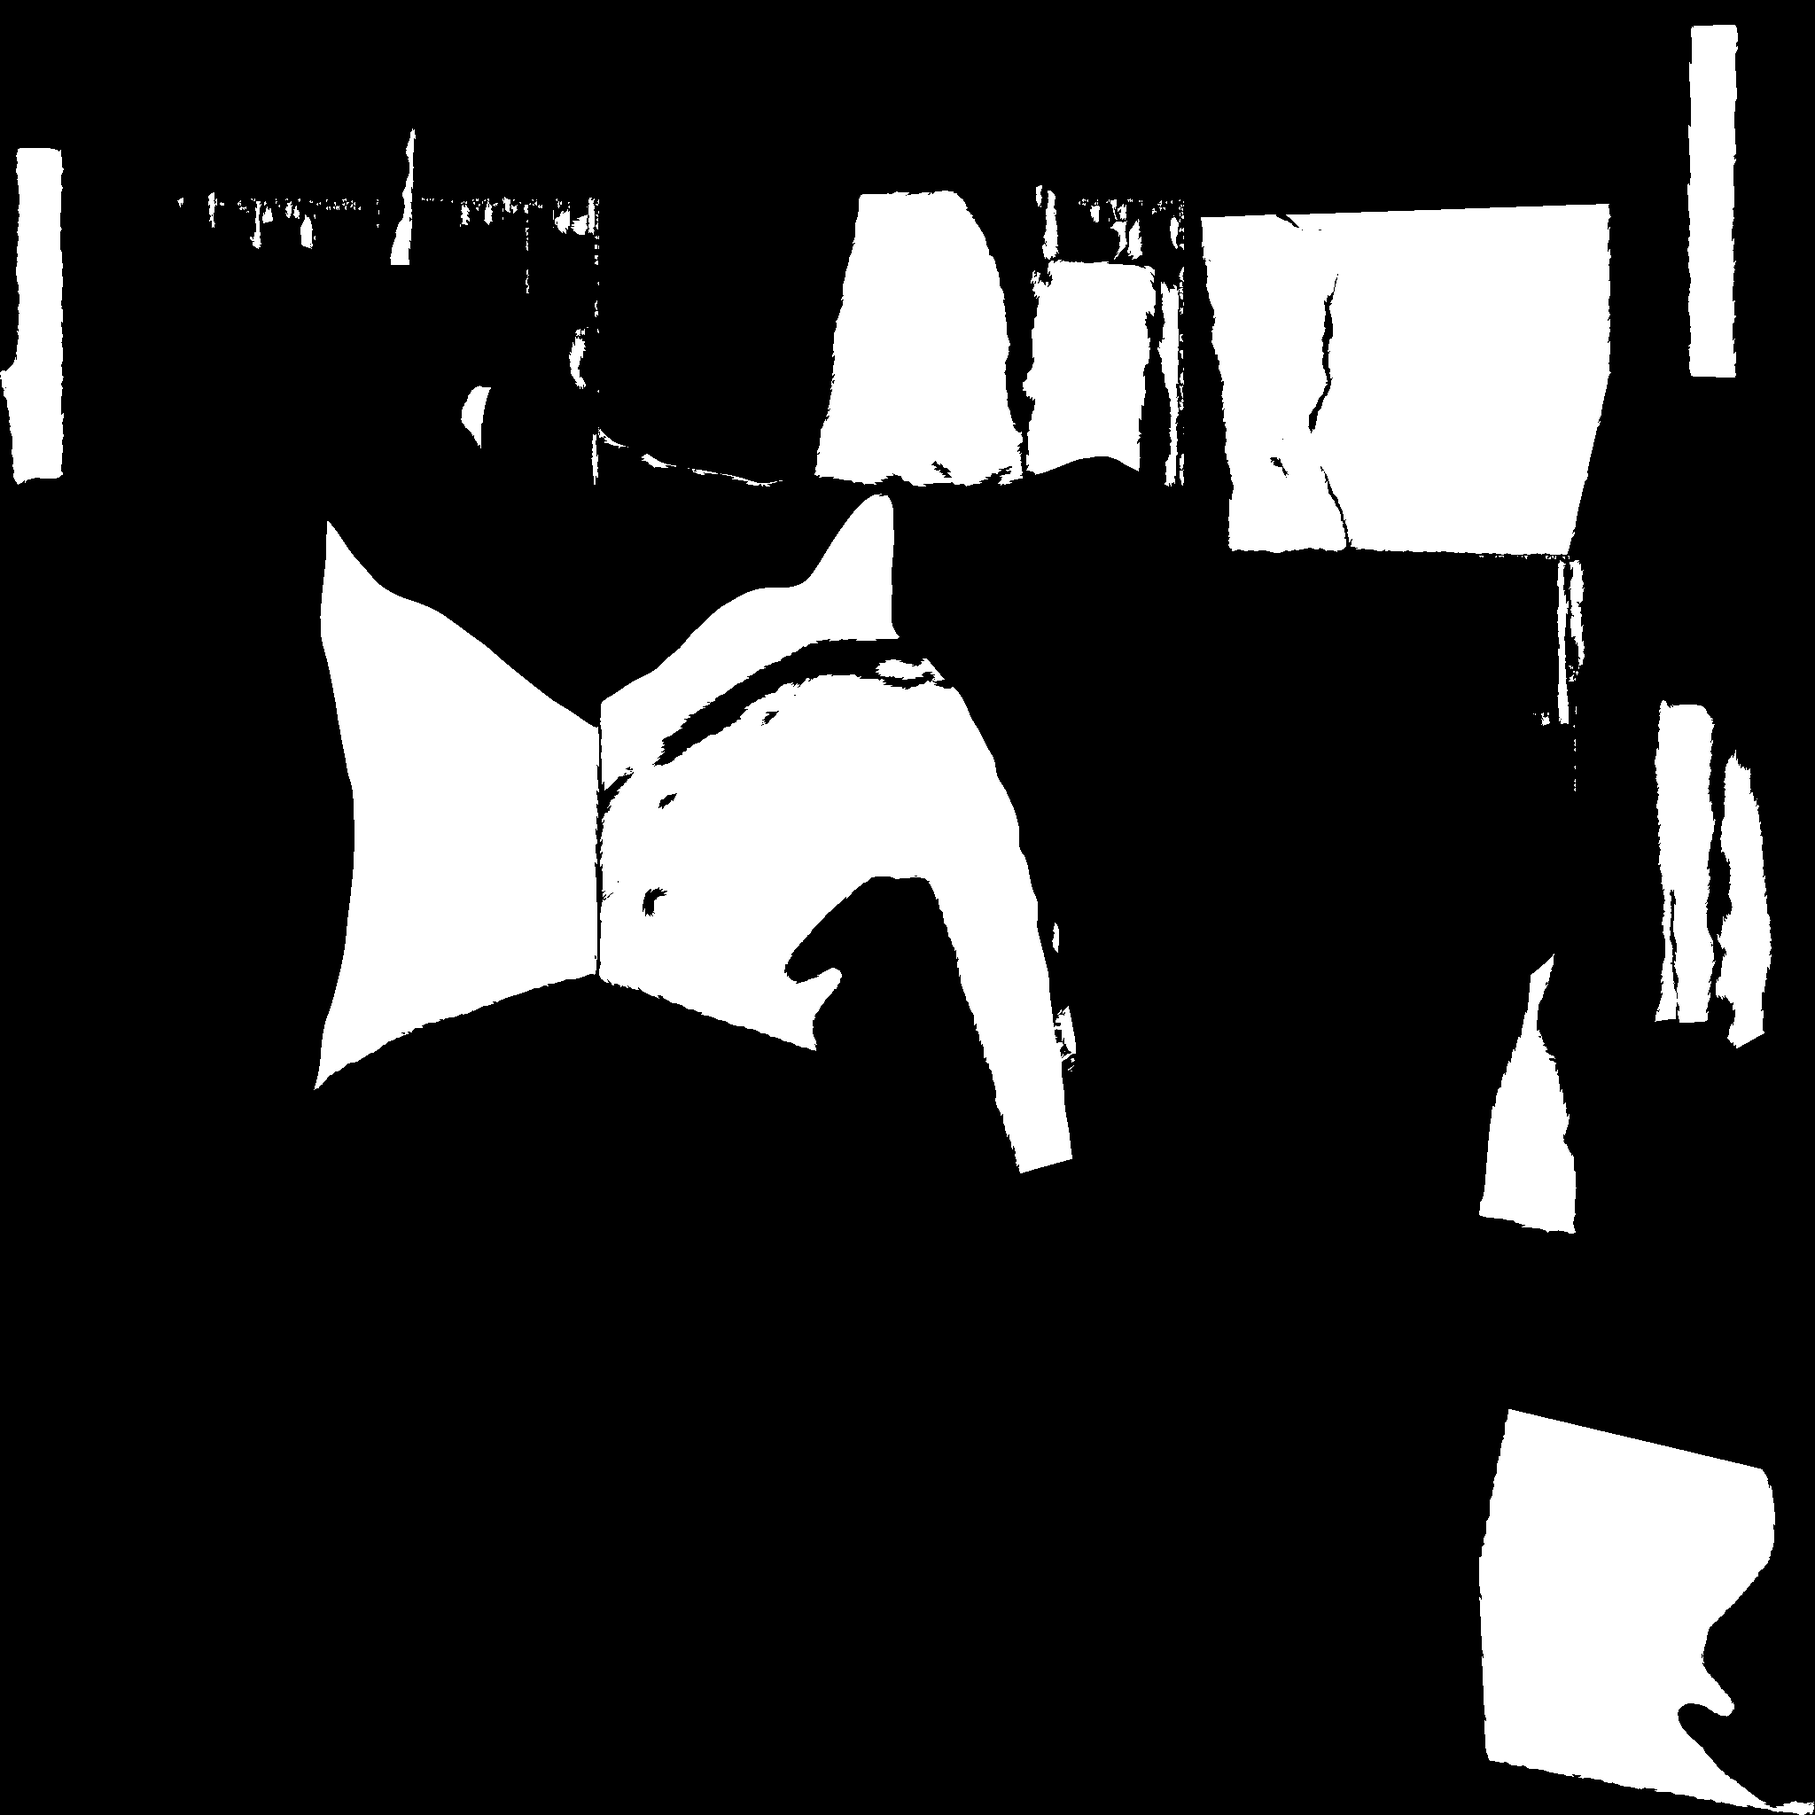
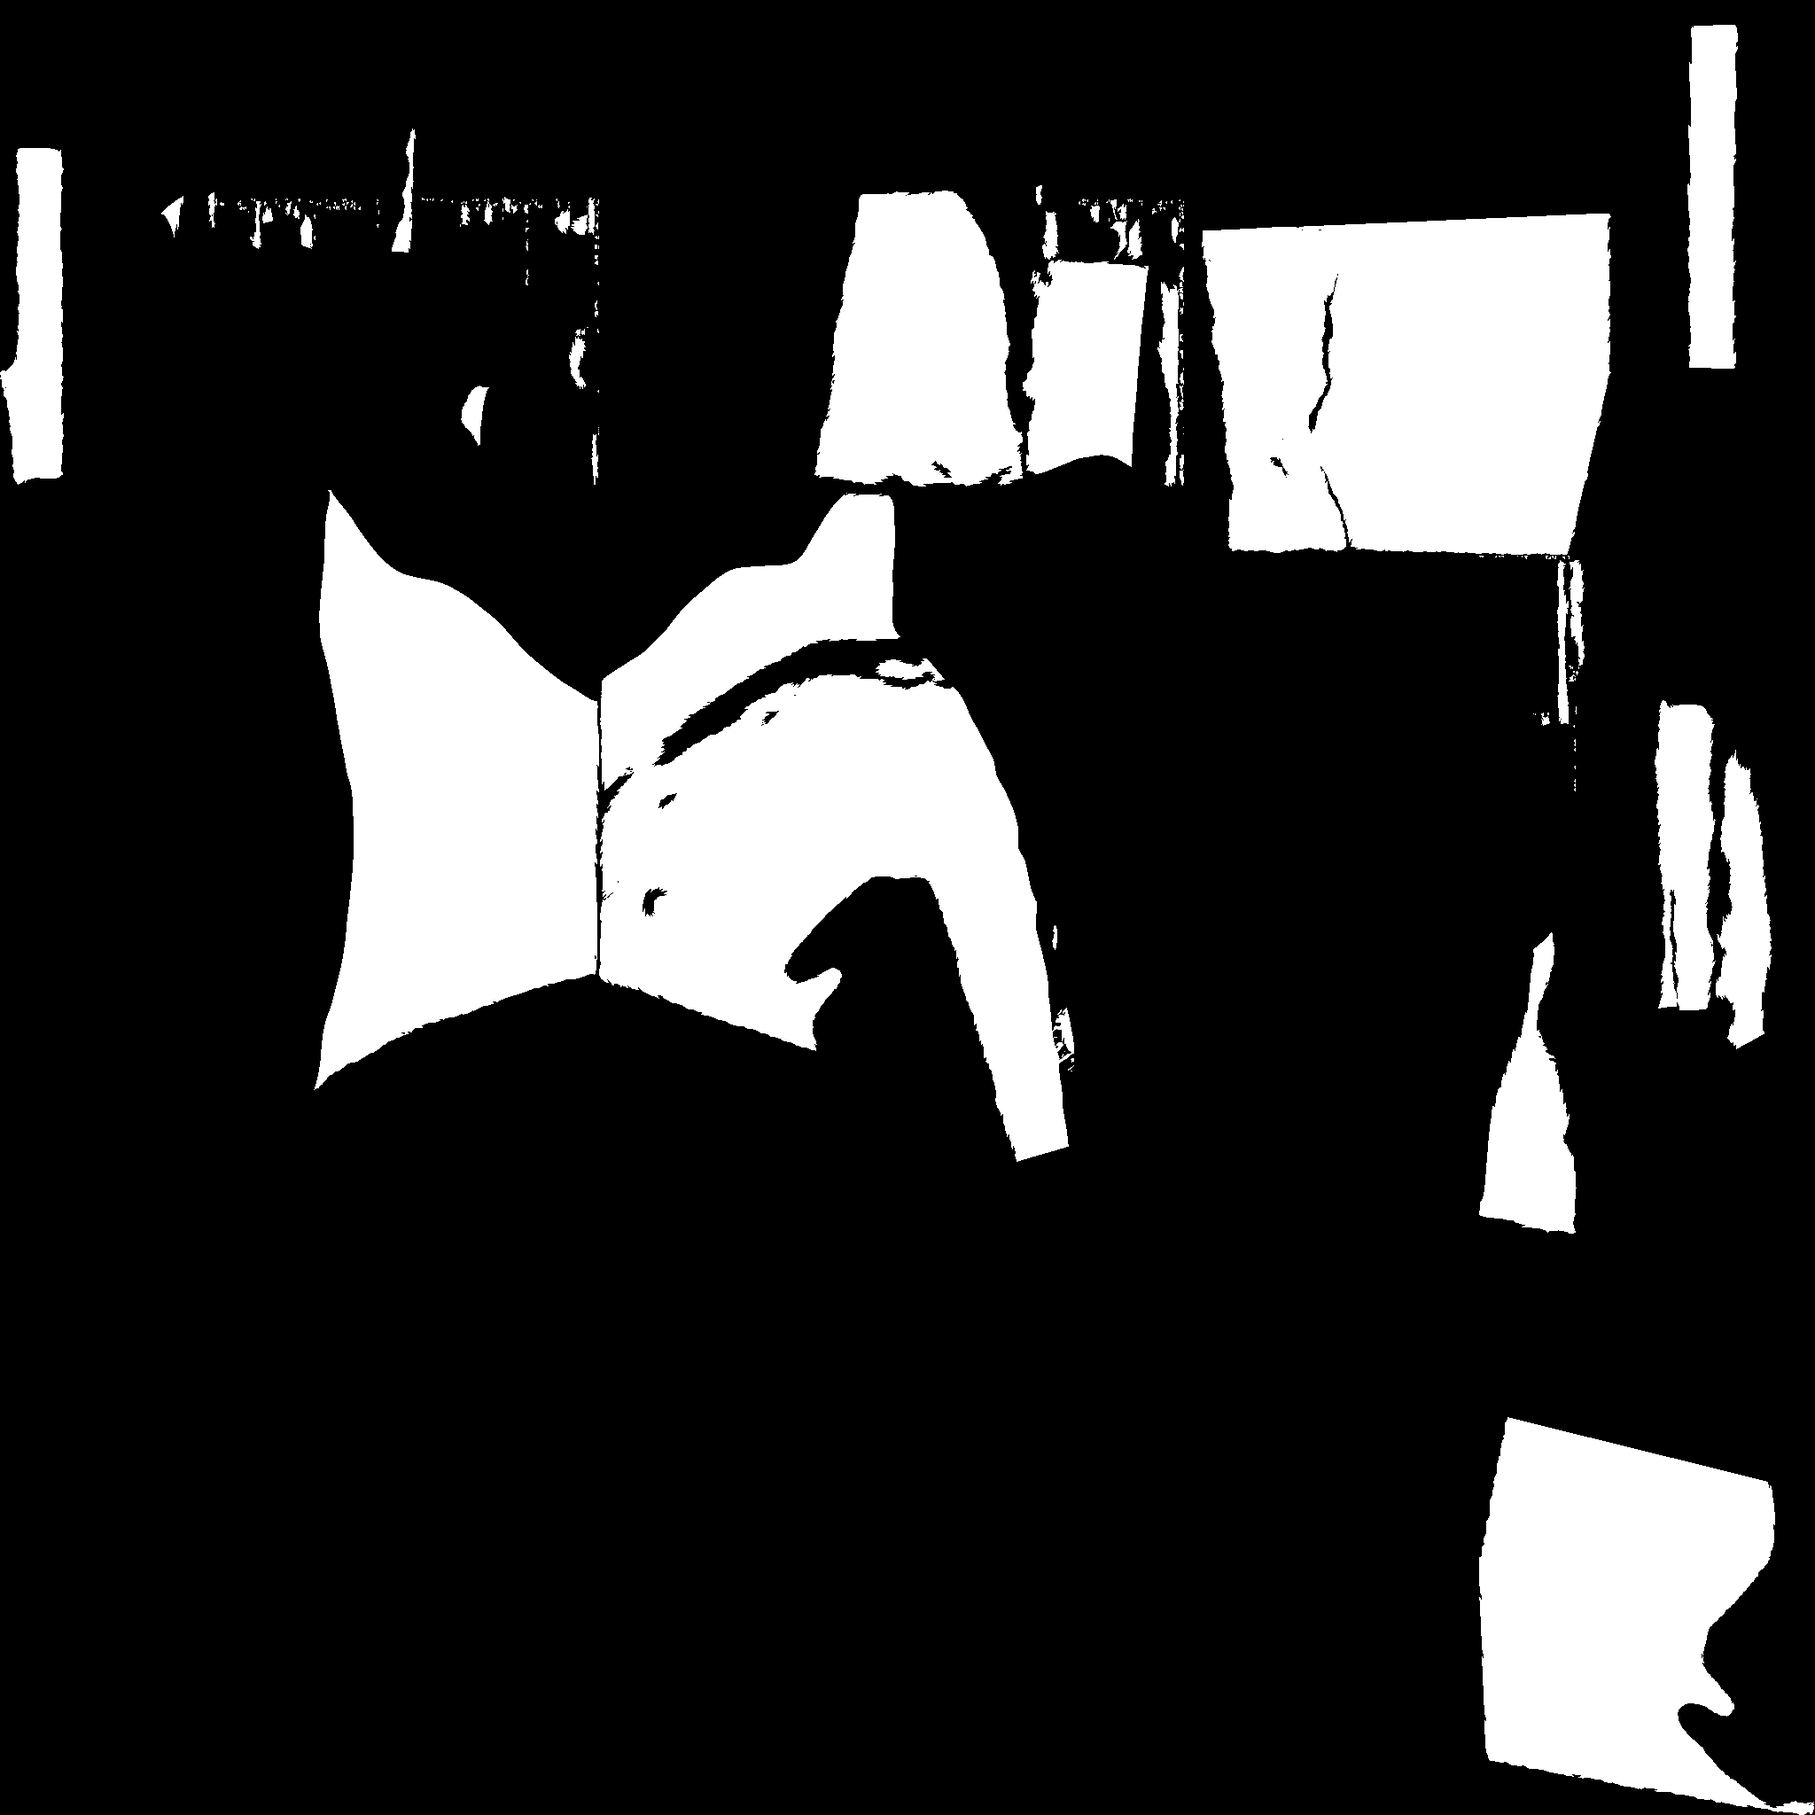
Add position refinement

diff --git a/ds_tools/texture_mapping/camera_pose_refinement.py b/ds_tools/texture_mapping/camera_pose_refinement.py
@@ -1,3 +1,4 @@
+from scipy import optimize as opt
 from panda3d.core import *
 from os import path
 import numpy as np
@@ -49,6 +50,10 @@ class TextureMappingRenderApp(BaseRenderApp):
 
         self.camera_film_size = None
         self.camera_focal_length = None
+
+        self.projection_camera_np = None
+        self.projection_lens = None
+        self.normal_box = None
 
     def init_scene(self, model_path, texture_path,
                    camera_film_size=None,
@@ -210,8 +215,29 @@ class TextureMappingRenderApp(BaseRenderApp):
         self.model.setShaderInput('proj_ProjectionMatrix', projection_lens.getProjectionMat())
         self.model.setShaderInput('LightPos', projection_camera_np.getNetTransform().getPos())
 
-        # Delete all unnecessary nodes and objects
-        projection_camera_np.removeNode()
+        # Record all necessary objects
+        self.projection_camera_np = projection_camera_np
+        self.projection_lens = projection_lens
+        self.normal_box = normal_box
+
+    def update_camera_pose(self, camera_pos, camera_hpr):
+        if self.projection_camera_np is None:
+            raise ValueError('Projection camera is none!')
+
+        self.projection_camera_np.setPos(*camera_pos)
+        self.projection_camera_np.setHpr(*camera_hpr)
+
+        self.main_camera_np.setPos(*camera_pos)
+        self.main_camera_np.setHpr(*camera_hpr)
+
+        normal_box_pos = self.normal_box.getNetTransform().getPos()
+        cam_pos = self.projection_camera_np.getPos()
+        normal = (normal_box_pos - cam_pos).normalized()
+        self.last_projection_camera_normal = normal
+
+        self.model.setShaderInput('proj_ModelViewMatrix', self.model.getMat(self.projection_camera_np))
+        self.model.setShaderInput('proj_ProjectionMatrix', self.projection_lens.getProjectionMat())
+        self.model.setShaderInput('LightPos', self.projection_camera_np.getNetTransform().getPos())
 
     def toggle_shader(self):
         self.shader_texture_mode = (self.shader_texture_mode + 1) % self.ShaderTextureMode_END
@@ -282,28 +308,45 @@ class TextureMappingRenderApp(BaseRenderApp):
         self.screenshot_count += 1
 
 
+def compute_alignment_error_between(proj_A, mask_A, proj_B, mask_B):
+    h, w = proj_A.shape
+    mask = np.logical_and(mask_A, mask_B)
+
+    e = 0
+    n = 0
+    for y in range(h):
+        for x in range(w):
+            if not mask[y, x]:
+                continue
+
+            diff = np.abs(float(proj_A[y, x]) - float(proj_B[y, x]))
+            e += diff
+            n += 1
+    return e, n
+
+
 def main():
     data_dir = util.get_data_dir()
     resource_dir = util.get_resource_dir()
 
-    # model_path = path.join(data_dir, 'placenta_phantom_capture', 'placenta_mesh.obj')
-    # texture_path = path.join(data_dir, 'placenta_phantom_capture', 'texture.png')
-    # normal_map_path = None
-    # camera_image_path = path.join(resource_dir, 'placenta_phantom_images', '{}_screenshot.png')
-    # capture_data_json_path = path.join(resource_dir, 'placenta_phantom_images', 'capture_data.json')
-    # capture_folder_name = 'placenta_phantom_capture'
-    # base_capture_path = path.join(resource_dir, capture_folder_name, 'base_{}.png')
-    # texture_capture_path = path.join(resource_dir, capture_folder_name, '{}_{}.png')
-
-    # model_path = path.join(resource_dir, '3d_assets', 'heart.egg')
-    model_path = path.join(resource_dir, '3d_assets', 'heart.obj')
-    texture_path = path.join(resource_dir, '3d_assets', 'T_heart_base3.png')
-    normal_map_path = path.join(resource_dir, '3d_assets', 'T_heart_n.png')
-    camera_image_path = path.join(resource_dir, 'heart_screenshots', '{}_screenshot.png')
-    capture_data_json_path = path.join(resource_dir, 'heart_screenshots', 'capture_data.json')
-    capture_folder_name = 'heart_texture_capture'
+    model_path = path.join(data_dir, 'placenta_phantom_capture', 'placenta_mesh.obj')
+    texture_path = path.join(data_dir, 'placenta_phantom_capture', 'texture.png')
+    normal_map_path = None
+    camera_image_path = path.join(resource_dir, 'placenta_phantom_images', '{}_screenshot.png')
+    capture_data_json_path = path.join(resource_dir, 'placenta_phantom_images', 'capture_data.json')
+    capture_folder_name = 'placenta_phantom_capture'
     base_capture_path = path.join(resource_dir, capture_folder_name, 'base_{}.png')
     texture_capture_path = path.join(resource_dir, capture_folder_name, '{}_{}.png')
+
+    # model_path = path.join(resource_dir, '3d_assets', 'heart.egg')
+    # model_path = path.join(resource_dir, '3d_assets', 'heart.obj')
+    # texture_path = path.join(resource_dir, '3d_assets', 'T_heart_base3.png')
+    # normal_map_path = path.join(resource_dir, '3d_assets', 'T_heart_n.png')
+    # camera_image_path = path.join(resource_dir, 'heart_screenshots', '{}_screenshot.png')
+    # capture_data_json_path = path.join(resource_dir, 'heart_screenshots', 'capture_data.json')
+    # capture_folder_name = 'heart_texture_capture'
+    # base_capture_path = path.join(resource_dir, capture_folder_name, 'base_{}.png')
+    # texture_capture_path = path.join(resource_dir, capture_folder_name, '{}_{}.png')
 
     # Load capture data JSON
     capture_json = util.load_dict(capture_data_json_path)
@@ -315,15 +358,9 @@ def main():
 
     # When tex_mode is `true` the app captures reprojected textures in headless mode. When it is false, the app runs
     # in foreground and lets you explore the model.
-    tex_mode = True
-
-    renderer = None
-    if tex_mode:
-        texture_cv = cv.imread(texture_path)
-        texture_height, texture_width = texture_cv.shape[:2]
-        renderer = TextureMappingRenderApp(width=texture_width, height=texture_height, headless=True)
-    else:
-        renderer = TextureMappingRenderApp(width=720, height=576, headless=False)
+    texture_cv = cv.imread(texture_path)
+    texture_height, texture_width = texture_cv.shape[:2]
+    renderer = TextureMappingRenderApp(width=texture_width, height=texture_height, headless=True)
 
     renderer.init_scene(model_path=model_path,
                         texture_path=texture_path,
@@ -339,34 +376,54 @@ def main():
             save_path = base_capture_path.format(name)
         cv.imwrite(save_path, texture_capture)
 
-    for i in range(len(camera_pos)):
-        print('Processing screenshot {}...'.format(i))
+    base_image_index = 0
+    base_projection = cv.imread(texture_capture_path.format(base_image_index, 'projection'), cv.IMREAD_GRAYSCALE)
+    base_projection = cv.Laplacian(base_projection, cv.CV_8UC1)
+    base_projection = cv.blur(base_projection, (3, 3))
+    base_mask = (cv.imread(texture_capture_path.format(base_image_index, 'confidence'), cv.IMREAD_GRAYSCALE) > 5)
 
-        renderer.update_projection(camera_image_path=camera_image_path.format(i),
-                                   camera_pos=camera_pos[i],
-                                   camera_hpr=camera_hpr[i])
+    new_image_index = 1
+    new_image_path = camera_image_path.format(new_image_index)
 
-        # Extract camera normal for this screenshot
-        camera_normal = renderer.last_projection_camera_normal
-        camera_normals.append([camera_normal[0], camera_normal[1], camera_normal[2]])
+    cam_pos = camera_pos[new_image_index]
+    cam_hpr = camera_hpr[new_image_index]
 
-        if tex_mode:
-            if i == 0:
-                capture_texture(renderer.ShaderTextureMode_Default, 'texture')
-                capture_texture(renderer.ShaderTextureMode_Normal, 'normal')
-                capture_texture(renderer.ShaderTextureMode_Mask, 'mask')
+    renderer.update_projection(camera_image_path=new_image_path,
+                               camera_pos=cam_pos,
+                               camera_hpr=cam_hpr)
 
-            capture_texture(renderer.ShaderTextureMode_Projection, 'projection', i)
-            capture_texture(renderer.ShaderTextureMode_Visibility, 'visibility', i)
-            capture_texture(renderer.ShaderTextureMode_Frustum, 'frustum', i)
-            capture_texture(renderer.ShaderTextureMode_Light, 'light', i)
+    def loss(params, log=True):
+        renderer.update_camera_pose(params[:3], params[3:])
+        new_projection = renderer.capture_shader_texture(renderer.ShaderTextureMode_Projection)
+        new_projection = cv.cvtColor(new_projection, cv.COLOR_RGB2GRAY)
+        new_projection = cv.Laplacian(new_projection, cv.CV_8UC1)
+        new_projection = cv.blur(new_projection, (3, 3))
+        new_mask = (renderer.capture_shader_texture(renderer.ShaderTextureMode_Visibility)[:, :, 0] > 10)
 
-    if not tex_mode:
-        renderer.run()
+        e, n = compute_alignment_error_between(base_projection, base_mask, new_projection, new_mask)
+        loss_val = e / n + 329745 / n
+        if log:
+            print('Loss:', np.round(loss_val, 3))
+        return loss_val
+
+    init_params = cam_pos + cam_hpr
+
+    new_params = opt.fmin_cg(loss, init_params, epsilon=0.5, gtol=0.1, disp=True)
+
+    print('Initial loss:', np.round(loss(init_params, False), 6))
+    print('Final loss:', np.round(loss(new_params, False), 6))
+    print('')
+    print('New pos:', new_params[:3])
+    print('New hpr:', new_params[3:])
+
+    # capture_texture(renderer.ShaderTextureMode_Projection, 'projection', i)
+    # capture_texture(renderer.ShaderTextureMode_Visibility, 'visibility', i)
+    # capture_texture(renderer.ShaderTextureMode_Frustum, 'frustum', i)
+    # capture_texture(renderer.ShaderTextureMode_Light, 'light', i)
 
     # Save camera normals (they will be used for texture reconstruction)
-    capture_json['camera_normal'] = camera_normals
-    util.save_dict(capture_data_json_path, capture_json)
+    # capture_json['camera_normal'] = camera_normals
+    # util.save_dict(capture_data_json_path, capture_json)
 
     renderer.shutdown_and_destroy()
 

diff --git a/ds_tools/texture_mapping/texture_mapping_renderer.py b/ds_tools/texture_mapping/texture_mapping_renderer.py
@@ -286,24 +286,24 @@ def main():
     data_dir = util.get_data_dir()
     resource_dir = util.get_resource_dir()
 
-    # model_path = path.join(data_dir, 'placenta_phantom_capture', 'placenta_mesh.obj')
-    # texture_path = path.join(data_dir, 'placenta_phantom_capture', 'texture.png')
-    # normal_map_path = None
-    # camera_image_path = path.join(resource_dir, 'placenta_phantom_images', '{}_screenshot.png')
-    # capture_data_json_path = path.join(resource_dir, 'placenta_phantom_images', 'capture_data.json')
-    # capture_folder_name = 'placenta_phantom_capture'
-    # base_capture_path = path.join(resource_dir, capture_folder_name, 'base_{}.png')
-    # texture_capture_path = path.join(resource_dir, capture_folder_name, '{}_{}.png')
-
-    # model_path = path.join(resource_dir, '3d_assets', 'heart.egg')
-    model_path = path.join(resource_dir, '3d_assets', 'heart.obj')
-    texture_path = path.join(resource_dir, '3d_assets', 'T_heart_base3.png')
-    normal_map_path = path.join(resource_dir, '3d_assets', 'T_heart_n.png')
-    camera_image_path = path.join(resource_dir, 'heart_screenshots', '{}_screenshot.png')
-    capture_data_json_path = path.join(resource_dir, 'heart_screenshots', 'capture_data.json')
-    capture_folder_name = 'heart_texture_capture'
+    model_path = path.join(data_dir, 'placenta_phantom_capture', 'placenta_mesh.obj')
+    texture_path = path.join(data_dir, 'placenta_phantom_capture', 'texture.png')
+    normal_map_path = None
+    camera_image_path = path.join(resource_dir, 'placenta_phantom_images', '{}_screenshot.png')
+    capture_data_json_path = path.join(resource_dir, 'placenta_phantom_images', 'capture_data.json')
+    capture_folder_name = 'placenta_phantom_capture'
     base_capture_path = path.join(resource_dir, capture_folder_name, 'base_{}.png')
     texture_capture_path = path.join(resource_dir, capture_folder_name, '{}_{}.png')
+
+    # model_path = path.join(resource_dir, '3d_assets', 'heart.egg')
+    # model_path = path.join(resource_dir, '3d_assets', 'heart.obj')
+    # texture_path = path.join(resource_dir, '3d_assets', 'T_heart_base3.png')
+    # normal_map_path = path.join(resource_dir, '3d_assets', 'T_heart_n.png')
+    # camera_image_path = path.join(resource_dir, 'heart_screenshots', '{}_screenshot.png')
+    # capture_data_json_path = path.join(resource_dir, 'heart_screenshots', 'capture_data.json')
+    # capture_folder_name = 'heart_texture_capture'
+    # base_capture_path = path.join(resource_dir, capture_folder_name, 'base_{}.png')
+    # texture_capture_path = path.join(resource_dir, capture_folder_name, '{}_{}.png')
 
     # Load capture data JSON
     capture_json = util.load_dict(capture_data_json_path)
@@ -339,7 +339,7 @@ def main():
             save_path = base_capture_path.format(name)
         cv.imwrite(save_path, texture_capture)
 
-    for i in range(len(camera_pos)):
+    for i in [1]:  # range(len(camera_pos)):
         print('Processing screenshot {}...'.format(i))
 
         renderer.update_projection(camera_image_path=camera_image_path.format(i),

diff --git a/ds_tools/texture_mapping/measure_alignment_error.py b/ds_tools/texture_mapping/measure_alignment_error.py
@@ -1,7 +1,9 @@
+from joblib import Parallel, delayed
 from itertools import combinations
 from os import path
 import numpy as np
 import cv2 as cv
+import time
 
 # Our local modules
 from ds_tools.shared import util, cv_util
@@ -36,10 +38,29 @@ def measure_error(true_texture_path, reconst_texture_path, mask_path, output_pat
 
 
 def compute_alignment_error_between(proj_A, mask_A, proj_B, mask_B):
-    e = 0
-    n = 0
     h, w = proj_A.shape
     mask = np.logical_and(mask_A, mask_B)
+
+    # do_parallel = False
+    # if do_parallel:
+    #     def compute_error(y):
+    #         le = 0
+    #         ln = 0
+    #         for x in range(w):
+    #             if not mask[y, x]:
+    #                 continue
+    #
+    #             diff = np.abs(float(proj_A[y, x]) - float(proj_B[y, x]))
+    #             le += diff
+    #             ln += 1
+    #         return le, ln
+    #
+    #     errors = Parallel(n_jobs=10)(delayed(compute_error)(y) for y in range(h))
+    #     e, n = np.sum(errors, axis=0)
+    #     return e, n
+    # else:
+    e = 0
+    n = 0
     for y in range(h):
         for x in range(w):
             if not mask[y, x]:
@@ -48,7 +69,6 @@ def compute_alignment_error_between(proj_A, mask_A, proj_B, mask_B):
             diff = np.abs(float(proj_A[y, x]) - float(proj_B[y, x]))
             e += diff
             n += 1
-
     return e, n
 
 
@@ -88,7 +108,11 @@ def main():
     output_path_template = path.join(capture_path, '{}_edges.png')
     total_images = 10
 
+    start = time.time()
     measure_alignment_error(projection_path_template, confidence_path_template, output_path_template, total_images)
+    end = time.time()
+    duration = end - start
+    print('Time taken: {}s'.format(np.round(duration, 2)))
 
 
 if __name__ == '__main__':
